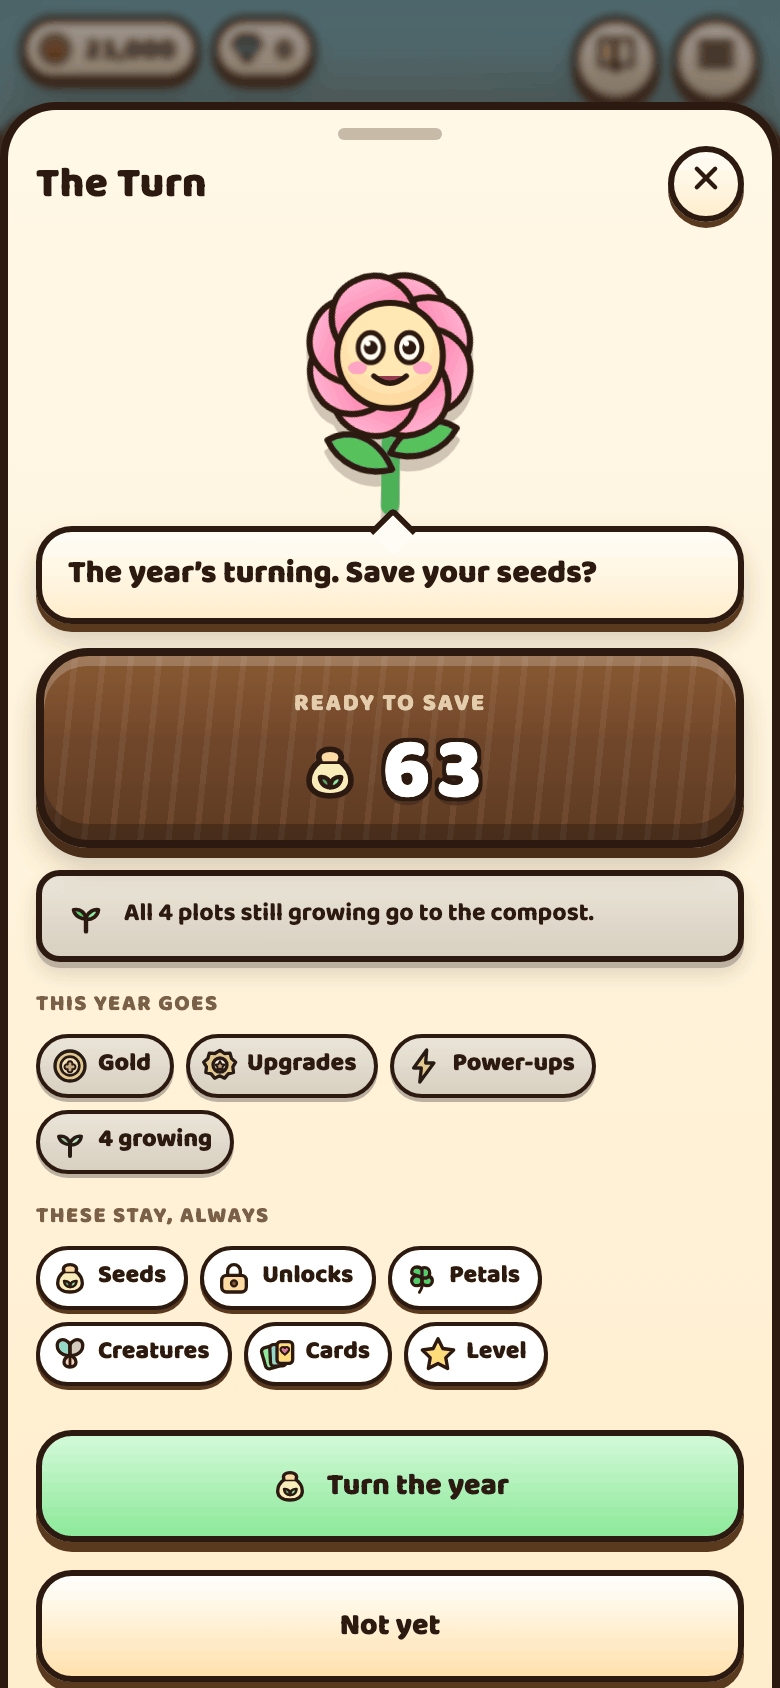
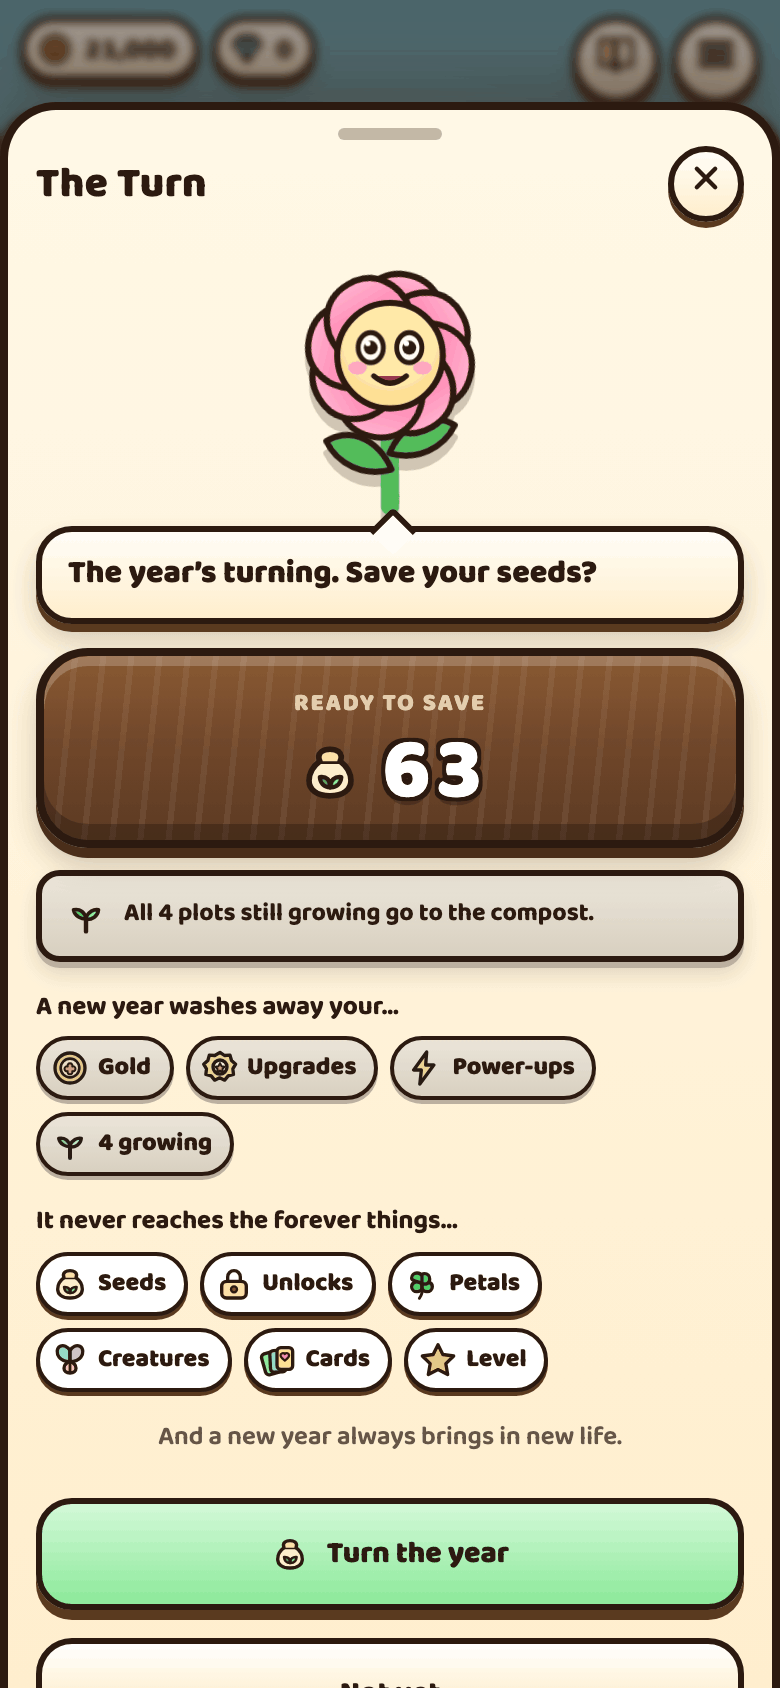
#22 — the Turn's ask says the same price in a kinder voice, and names nothing less.
THE BLUNTNESS WAS A FIXED BUG, SO NOTHING LEFT THE LIST. The comment above the
`goes` array records it: the ask once named only the growing plots and told an
empty board the Turn "costs you nothing at all", which is false on every board —
gold zeroes to the fresh purse, every upgrade wipes, power-ups go, plots 5-8
close. An irreversible commit may never understate its own price. Warmth is one
step from understatement and that step is what was already fixed once, so the
`goes` array, the `keeps` array and the `cost` line are NOT TOUCHED — read the
diff: they appear only as context. All five "goes" chips and all five conditions
ship exactly as they were. What changed is the framing above them.

HALF THE DIAGNOSIS WAS TYPOGRAPHIC, and it is the half that makes the owner's
own wording work. `.cere-lab` was 11px, uppercase, letter-spaced, `--ink-soft` —
a small-caps form heading — so dropping "A new year washes away your…" into it
unchanged would have rendered A NEW YEAR WASHES AWAY YOUR in shouted caps and
read worse, not better. The panel had one warm sentence (the compost line)
between two shouted labels, and the register changed twice in six rows. Both
rows are rewritten or neither: a narrative "goes" against a shouted "stays" tips
the balance the other way, which is the failure the item names. `.cere-say` is
13px sentence case at the body ink, declaring no colour of its own because
inheriting is what puts it in the compost line's register.
[…]

Changed region(s): [[0.0308, 0.5853, 0.9538, 1.0], [0.3692, 0.154, 0.6154, 0.2773]]

diff --git a/tools/sim-test.js b/tools/sim-test.js
@@ -7633,6 +7633,64 @@ check('the lock glyph itself survives — plot gates and the meadow draw it', Ic
    point of the negative case: a test that only says "no padlocks in the
    picker" is passed by deleting the padlock that is supposed to stay. */
 
+
+/* THE ASK MAY GET KINDER; IT MAY NOT GET SHORTER. The panel once named only
+   the growing plots and told an empty board the Turn cost nothing at all —
+   false on every board, because gold zeroes to the fresh purse, every upgrade
+   wipes, power-ups go and plots 5-8 close. The framing above the chips was
+   rewritten in the 2026-09-03 round; the list underneath is the fixed bug.
+   The closing renewal line is deliberately NOT asserted: it is provisional and
+   its reversal is deleting that one <p>, which no check may turn red. */
+group('the Turn’s ask still names every price it charges');
+const askAt = sheetSrc.indexOf('const goes = [');
+const goesBlock = askAt < 0 ? '' : sheetSrc.slice(askAt, sheetSrc.indexOf('const cost =', askAt));
+/* The scrape guard on everything below it: a rename that breaks the slice
+   returns '' and every every() under it is vacuously true. */
+check('the goes list was actually found and read',
+  askAt > 0 && goesBlock.length > 300 && goesBlock.length < 1500, `${goesBlock.length} chars`);
+const TAKES = ['Gold', 'Upgrades', 'Power-ups', 'big plot', 'growing'];
+check('it still names all five things the Turn takes',
+  TAKES.every((n) => goesBlock.includes(n)), TAKES.filter((n) => !goesBlock.includes(n)).join(', '));
+/* Gold is the unconditional one and the only one whose condition could be
+   softened back into the original bug: a purse that looks empty at the ask
+   still zeroes, and every upgrade bought with it still wipes. */
+check('gold is named on every board, not only on a full purse',
+  /Gold`,\s*true\s*\]/.test(goesBlock), goesBlock.slice(0, 140));
+check('and the other four still carry their own conditions',
+  /S\.upgrades[\s\S]{0,80}some/.test(goesBlock) && /S\.boostInv[\s\S]{0,80}some/.test(goesBlock)
+  && /bigPlots > 0/.test(goesBlock) && /growing > 0/.test(goesBlock));
+/* The framing, which is the half that changed. A narrative "goes" against a
+   shouted "stays" tips the panel the wrong way, so it is both rows or neither. */
+const askCopy = [...sheetSrc.matchAll(/class="cere-say">([^<]*)</g)].map((m) => m[1]);
+check('both chip rows are led by a sentence, not a shouted label',
+  askCopy.length === 2, askCopy.join(' | '));
+/* WIDEN THIS LIST, never delete the check: row two's wording is the owner's to
+   confirm and the PROVISIONAL note in turnAsk() names three legal alternates,
+   all of which are here. What
+   may not come back is a verb-less label, because the chips below are verb-less
+   nouns on purpose and something has to say what happens to them. */
+const ASK_VERBS = /\b(washes|reaches|touches)\b/;
+check('the sentences carry the verb, so the chips stay verb-less nouns',
+  askCopy.length === 2 && askCopy.every((s) => ASK_VERBS.test(s)), askCopy.join(' | '));
+/* And each trails off into its own chip row rather than finishing the thought —
+   a sentence that names the losses itself makes the chips beneath it redundant. */
+check('each one hands off to its chips instead of completing itself',
+  askCopy.length === 2 && askCopy.every((s) => s.trim().endsWith('…')), askCopy.join(' | '));
+/* docs/32-the-garden-year.md:31 — the Turn is never the word "reset". */
+check('and neither of them says reset', !/reset/i.test(askCopy.join(' ')), askCopy.join(' | '));
+check('the shouted label class is retired, not left orphaned in the stylesheet',
+  !/cere-lab/.test(sheetSrc)
+  && !/cere-lab/.test(fs.readFileSync(path.join(ROOT, 'style.css'), 'utf8')));
+/* docs/37-monetization.md promise 2: the sacred moments stay clean. The ask is
+   the beat where a player is deciding to give something up, which is exactly
+   where a rewarded offer would be worth the most and cost the most. */
+const askPanel = sheetSrc.slice(sheetSrc.indexOf('function turnAsk() {'),
+  sheetSrc.indexOf('function turnBlessPanel()'));
+check('the ask panel was actually found and read',
+  askPanel.length > 2000 && askPanel.length < 8000, `${askPanel.length} chars`);
+check('and no ad offer has crept into the ceremony’s first beat',
+  !/data-ad|adTag\(|AD_LABEL/.test(askPanel));
+
 /* The strip is the game's one always-visible goal, and ranking it on every read
    made it trade places as a player alternated tapping and harvesting — which is
    the core loop, not an edge case. It re-ranks when the active SET changes and

diff --git a/ui-sheet.js b/ui-sheet.js
@@ -800,7 +800,7 @@
        irreversible commit may never understate its own price. */
     const bigPlots = S.grid.filter((c, i) => !c.locked && Game.plotUnlockLevel(i) > 1).length;
     /* Icon and noun, the same grammar the "stays" row uses two lines below —
-       the row's own heading carries the verb, so the chips do not have to. */
+       the sentence above the row carries the verb, so the chips do not have to. */
     const goes = [
       [`${Icons.get('coin')}Gold`, true],
       [`${Icons.get('badge')}Upgrades`, Object.values(S.upgrades || {}).some((v) => v > 0)],
@@ -811,6 +811,20 @@
     const cost = growing
       ? `${growing === 1 ? 'The plot' : `All ${growing} plots`} still growing ${growing === 1 ? 'goes' : 'go'} to the compost${ripe ? ' — everything ripe is picked for you first' : ''}.`
       : (ripe ? 'Everything ripe is picked for you first.' : 'The board is empty, so nothing is composted.');
+    /* Both chip rows are led by a sentence rather than a small-caps label,
+       because 11px letter-spaced caps cannot name an irreversible price
+       kindly. Row one is the owner's own wording. TWO THINGS HERE ARE
+       PROVISIONAL and are the owner's to settle:
+         - row two's sentence, which cannot mirror row one's possessive because
+           "your Fall's bed" does not parse. "the forever things" is doc 32's
+           own header for that column. Legal alternates that hold the shape and
+           stay one line at 320px: "It never touches the forever things…",
+           "A new year never reaches these…", "And it never reaches what you
+           keep forever…".
+         - the closing renewal line, which sits here rather than on the spring
+           beat so it reaches the player while the decision is still theirs to
+           make. Reversal is deleting that one paragraph; the panel is 32px
+           shorter and otherwise identical. */
     return `<div class="cere">
       <div class="cere-flower">${Flora.talkingFlower()}</div>
       <div class="speech-block">The year’s turning. Save your seeds?</div>
@@ -819,10 +833,11 @@
         <div class="plate-big outlined">${Icons.get('pouch')}<span>${fmt(Math.floor(mint.base))}</span></div>
       </div>
       <div class="cost-line${growing ? '' : ' good'}">${Icons.get('sprout')}<span>${cost}</span></div>
-      <p class="cere-lab">This year goes</p>
+      <p class="cere-say">A new year washes away your…</p>
       <div class="keep-row">${goes}</div>
-      <p class="cere-lab">These stay, always</p>
+      <p class="cere-say">It never reaches the forever things…</p>
       <div class="keep-row">${keeps}</div>
+      <p class="sheet-note centred">And a new year always brings in new life.</p>
       <div class="btn-row">
         <button class="big-btn yes" data-act="turnBless">${Icons.get('pouch')}Turn the year</button>
         <button class="big-btn" data-act="turnLater">Not yet</button>

diff --git a/data.js b/data.js
@@ -734,7 +734,8 @@ const DATA = {
         'Crops in your fall bed can be finished early with gems now, the same as the flowers in your garden — every crop but the Century Bloom, which keeps its fortnight.',
         'A plot you have just picked remembers what grew there — tap the small sprout in its bottom corner to plant the same flower again without opening the seed list.',
         'Feeding your pets asks a little more of you now: a clover nibble costs gold, a petal cake costs gems, and a honeypot is the one you watch an ad for.',
-        'The shop will lend you a harvest drone for half an hour if you watch a short video — it picks your ready flowers for you while it flies, and it never slows down a drone you already own.'
+        'The shop will lend you a harvest drone for half an hour if you watch a short video — it picks your ready flowers for you while it flies, and it never slows down a drone you already own.',
+        'Turning the year says the same thing in a kinder voice: a new year washes away your gold, upgrades and power-ups, and never reaches the things you keep forever.'
       ]
     },
     {

diff --git a/style.css b/style.css
@@ -2192,8 +2192,11 @@ button:focus-visible{
    0 18px 26px. Lip and contact shadow scale together or the object looks like
    it is hovering at the wrong height. */
 .keep-row{display:flex;flex-wrap:wrap;gap:6px;margin-top:6px}
-.cere-lab{margin:12px 0 0;font-size:11px;font-weight:800;letter-spacing:.07em;
-  text-transform:uppercase;color:var(--ink-soft)}
+/* The ask's two rows are led by a sentence, not a label. This panel names an
+   irreversible price, and 11px letter-spaced caps cannot name it kindly — one
+   warm line between two shouted ones changed the register twice in six rows.
+   The verb lives in the sentence so the chips below stay verb-less nouns. */
+.cere-say{margin:14px 0 0;font-size:13px;font-weight:700;line-height:1.35}
 /* What the year takes wears the drained paper every "not any more" state in
    this game wears — not red, because a cost stated in advance is not an error.
    It restates its own lip, like every other modifier that touches box-shadow. */

diff --git a/docs/HANDOFF.md b/docs/HANDOFF.md
@@ -2649,6 +2649,15 @@ nothing failed a check, and a screenshot of the rail was reassuring. **Grep for 
 (`grep -cE '\.name([{ ,:.]|$)' style.css`) and **measure the box after**, because the rendered
 picture will not tell you.
 
+**And the mirror of it: a class you believe is SHARED may have exactly one caller, and scoping
+around it is work you did not need to do.** `docs/43` predicted `.cere-lab` was used across the
+Turn ceremony's later beats and told the fix to scope its type change to the ask panel rather than
+touch the class. It had **two** users, both inside `turnAsk()`; the beats it named label with
+`.plate-cap`. Believing it cost a wrapper class and a hedge that would have outlived the reason for
+them. **The same one-line grep answers both directions** — run it before you scope as well as
+before you delete, and delete outright when it comes back empty, because a rule left orphaned in a
+250KB stylesheet is an invitation for the next agent to use it.
+
 **A margin on one side of a `place-items:center` child shifts it by HALF of itself, and equal margins
 only cancel while they fit.** `.fl-wrap{margin-bottom:46px}` is where Fall's measured 23px board
 offset came from. The obvious repair — the same margin on both sides — works until the item overflows
@@ -2687,6 +2696,17 @@ Century Bloom never carries a `windfall` mark, so the real exclusion happens a l
 was asserting a ruling that nothing in the code path could violate. Sabotage with the *realistic*
 wrong implementation (here, a loop over everything ripe), not with the removal of the line you just
 wrote, and assert the fixture itself is in the state you think it is.
+
+**`UI.state` does not exist, and `tools/probe.js`'s own usage header tells you to use it.** Line 33
+advertises `'eval:UI.state.coins'`; the accessor is `Game.state`. The cost is not the typo, it is
+that **a probe `eval:` that throws prints one quiet line and the run carries on green** — so a setup
+step that silently did nothing leaves every measurement after it taken on the default board, which
+is a plausible number rather than an obvious failure. Read each eval's printed result; the exit code
+only catches an *uncaught page* error. Two more of the same family in one sitting: `tap:#newsOk`
+reloads with `reset: true`, and **after that reload the announcement comes straight back up** — so
+one tap dismisses nothing that lasts and a second tap resets the board you just built. For a
+photograph, set the board up first and then `document.querySelector('#news').remove()`; removing
+only the `show` class leaves the dialog painted.
 
 **`tools/probe.js`'s documented lawn point no longer starts a season swipe.** `drag:@30,600:...` at
 390×844 is in the usage header as "the lawn", and it does nothing now — verified against `HEAD` as

diff --git a/docs/08-ui-and-layout.md b/docs/08-ui-and-layout.md
@@ -516,6 +516,24 @@ unlocked its grid is seven rows.
 **The flower stands inside the body, not in `#sheetArt`.** A sheet this tall has no room above its
 own top edge, so the breakout art clips off the screen. `.cere-flower` is the ceremony's own.
 
+**The ask's two rows are led by body copy, not by a small-caps label** (2026-09-03). `.cere-lab` —
+11px, uppercase, letter-spaced, `--ink-soft` — is retired outright; `.cere-say` is 13px sentence
+case at the compost line's own ink, and a `.sheet-note.centred` closes under both chip rows. One
+warm sentence between two shouted labels changed the panel's register twice in six rows, and the
+shouted half was the half that read as confiscation. The panel already scrolls in its fullest
+state — at 390×640 the body is 534px against 782px of content before this change and 816px after,
+and "Turn the year" is fully on screen at the end of the scroll in both (its bottom sits at y=549
+of 640). At 390×844 the overflow goes 57px → 91px; both sentences stay one 18px line down to
+320px wide. `.cere-lab` had exactly two users in the repo, both in `turnAsk()`; the later beats
+label with `.plate-cap`, so nothing else could regress and no scoping wrapper was needed.
+**Row two's wording is provisional** — it cannot mirror row one's possessive, because the keeps
+row includes "Fall's bed" and "The Century Bloom" and *"your Fall's bed"* does not parse. Legal
+alternates that hold the shape and stay one line at 320px: *"It never touches the forever
+things…"*, *"A new year never reaches these…"*, *"And it never reaches what you keep forever…"*.
+The retired declaration, kept here so a demoted subtext can be restored without archaeology:
+`.cere-lab{margin:12px 0 0;font-size:11px;font-weight:800;letter-spacing:.07em;
+text-transform:uppercase;color:var(--ink-soft)}`.
+
 **It renders from a step variable, never from what is in the DOM.** Any `panels` emit rebuilds
 `#sheetBody` from scratch, so a ceremony that animated out of its markup would restart its fireworks
 every time an unrelated purchase fired. The pack reveal is the precedent. The corollary: **only the

diff --git a/docs/32-the-garden-year.md b/docs/32-the-garden-year.md
@@ -198,6 +198,17 @@ Five beats, about a minute, one decision:
    (3–4 meter-state lines in `FLOWER_LINES` ship with slice A).
 2. **The flower asks.** *"The year's turning. Save your seeds?"* Declining is free — the
    ceremony reopens from the meter pill whenever the player likes.
+
+   The ask names the year's whole price before it charges it — gold, upgrades, power-ups, the big
+   plots and whatever is still growing — and then names the forever things it never reaches.
+   **Both rows are led by a sentence, not a label** (2026-09-03): *"A new year washes away
+   your…"* and *"It never reaches the forever things…"*, with the chips beneath staying verb-less
+   nouns because the sentence carries the verb, and a quiet closing line under both — *"And a new
+   year always brings in new life."* The register is the compost line's, not a form heading's.
+   **The list may get kinder; it may never get shorter** — an irreversible commit may not
+   understate its own price, which is the bug the earlier bluntness fixed. Row two's wording and
+   the closing line's placement are provisional and the owner's to settle; the type treatment is
+   in [08-ui-and-layout.md](08-ui-and-layout.md).
 3. **Bless one flower.** The single choice in the ceremony: pick any flower, and its **free
    petal lands on Rich Bloom**, written into `state.petals` like any bought petal. One blessing
    per Turn, any flower, repeatable across years; `state.blessed` keeps the list for provenance

diff --git a/docs/11-known-issues.md b/docs/11-known-issues.md
@@ -175,6 +175,17 @@ the one the punch list called "probably right". The player-visible consequence, 
 about: the morning after a Turn, every plot opens the picker again. One-line reversal, recorded in
 `03-systems.md`.
 
+**One assertion in `tools/sim-test.js` is intermittent, and it is not new.** `a real harvest lands
+inside the range the picker quoted` (the seed-picker payout group) fails roughly **once in every
+25 runs**, on `HEAD` as well as on the working tree — measured both ways, 25 runs each, one failure
+each. The check arms rarity to `common` and then compares a real harvest against
+`plantPayout().min/max`, so something else in the payout still rolls. It matters out of proportion
+to its size: the round's whole "the count may only go up, 0 failed" gate becomes a coin flip nobody
+is expecting, and the natural reading of a single red run is "my change broke it". **If you see it,
+re-run before you debug**, and if you are the one to fix it, the group is the one three above
+`a petal button says what you have and what the next one adds`. Not fixed here — it belongs to
+whoever owns the picker's payout quote, and pinning it means moving an economy assertion.
+
 **The one bar already scheduled in the instant before the page froze still fires on the way back.**
 `#23` stops the three schedulers on a frozen context, but a note booked a moment earlier is already
 on the AudioContext's own queue and plays when the context resumes. It is one chord against the 81
